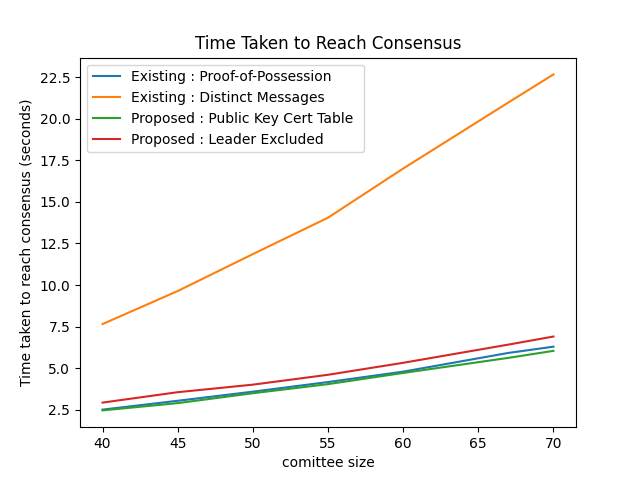
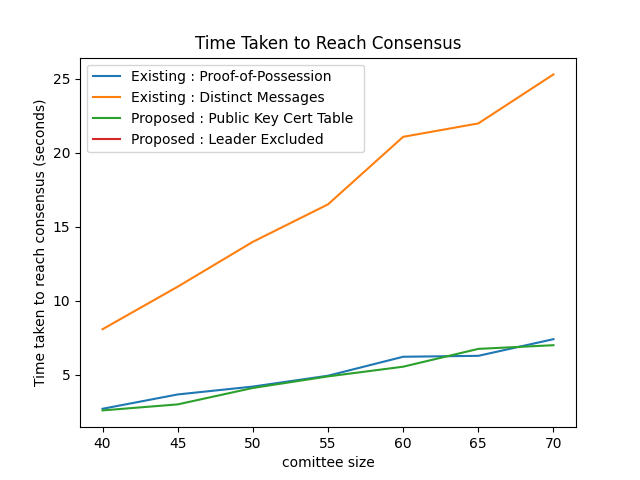
reverted simulation and added dissertation

diff --git a/analyse.py b/analyse.py
@@ -38,7 +38,7 @@ class Analyse():
             plt.plot(popComitteeSize, popTimes, label='Existing : Proof-of-Possession')
             plt.plot(basicComitteeSize, basicTimes, label='Existing : Distinct Messages')
             plt.plot(pktableComitteeSize, pktableTimes, label='Proposed : Public Key Cert Table ')
-            # plt.plot(leaderExcludedComitteeSize, leaderExcludedTimes, label='Proposed : Leader Excluded')
+            plt.plot(leaderExcludedComitteeSize, leaderExcludedTimes, label='Proposed : Leader Excluded')
 
             plt.xlabel('comittee size')
             plt.ylabel('Time taken to reach consensus (seconds)')
@@ -94,7 +94,7 @@ class Analyse():
             plt.plot(popComitteeSize, popLeaderToNodeMsgSizes, label='Existing : Proof-of-Possession')
             plt.plot(basicComitteeSize, basicLeaderToNodeMsgSizes, label='Existing : Distinct Messages')
             plt.plot(PKTComitteeSize, PKTLeaderToNodeMsgSizes, label='Proposed : Public Key Cert Table')
-            # plt.plot(LEComitteeSize, LELeaderToNodeMsgSizes, label='Proposed : Leader Excluded')
+            plt.plot(LEComitteeSize, LELeaderToNodeMsgSizes, label='Proposed : Leader Excluded')
             plt.xlabel('comittee size')
             plt.ylabel('Msg Size (bytes)')
             plt.legend()
@@ -104,14 +104,9 @@ class Analyse():
             plt.show()
             plt.clf()
 
-            # barYs = [popNodeToLeaderMsgSizes[0], basicNodeToLeaderMsgSizes[0], PKTNodeToLeaderMsgSizes[0], LENodeToLeaderMsgSizes[0]]
-            barYs = [popNodeToLeaderMsgSizes[0], basicNodeToLeaderMsgSizes[0], PKTNodeToLeaderMsgSizes[0]]
+            barYs = [popNodeToLeaderMsgSizes[0], basicNodeToLeaderMsgSizes[0], PKTNodeToLeaderMsgSizes[0], LENodeToLeaderMsgSizes[0]]
 
-            barXs = ['PoP', 'DM', 'PKT']
-            # plt.plot(popComitteeSize, popNodeToLeaderMsgSizes, label='Existing : Proof-of-Possession')
-            # plt.plot(basicComitteeSize, basicNodeToLeaderMsgSizes, label='Existing : Distinct Messages')
-            # plt.plot(PKTComitteeSize, PKTNodeToLeaderMsgSizes, label='Proposed : Public Key Cert Table')
-            # plt.plot(LEComitteeSize, LENodeToLeaderMsgSizes, label='Proposed : Leader Excluded')
+            barXs = ['PoP', 'DM', 'PKT', 'LE']
             plt.bar(barXs, barYs)
             plt.xlabel('Defence Mechanism')
             plt.ylabel('Msg Size (bytes)')
@@ -159,7 +154,7 @@ class Analyse():
             plt.plot(popComitteeSize, popNodeSizes, label='Existing : Proof-of-Possession')
             plt.plot(basicComitteeSize, basicNodeSizes, label='Existing : Distinct Messages')
             plt.plot(PKTComitteeSize, PKTNodeSizes, label='Proposed : Public Key Cert Table')
-            # plt.plot(LEComitteeSize, LENodeSizes, label='Proposed : Leader Excluded')
+            plt.plot(LEComitteeSize, LENodeSizes, label='Proposed : Leader Excluded')
             plt.xlabel('Comittee size')
             plt.ylabel('Node Size (bytes)')
             plt.legend()
@@ -176,7 +171,7 @@ class Analyse():
         time = datetime.now()
 
 
-analysis = Analyse()
-analysis.displaySpeed()
-analysis.displayMsgSize()
-analysis.displayNodeSize()
+# analysis = Analyse()
+# analysis.displaySpeed()
+# analysis.displayMsgSize()
+# analysis.displayNodeSize()

diff --git a/simulation.py b/simulation.py
@@ -44,12 +44,12 @@ def checkValidRound(committee):
 
 # creates a simulation for hardcoded sizes
 def simulationV2():
-    committeeSizes = [40,45,50,55,60,65,70]
+    committeeSizes = [10,12,14,16,18]
     for size in committeeSizes:
         validPKI = False
         validBasic = False
         validPop = False
-        validLe = True
+        validLe = False
         # re-run any failed consensus round. Round can fail for weird reasons
         while validPKI is False or validBasic is False or validPop is False or validLe is False :
             if validPKI is False : 
@@ -61,13 +61,13 @@ def simulationV2():
             if validPop is False : 
                 popTimeTaken, popCommittee = runPBFT('pop', size)
                 validPop = checkValidRound(popCommittee)
-            # if validLe is False : 
-            #     leTimeTaken, leCommittee = runPBFT('le', size)
-            #     validLe = checkValidRound(leCommittee)
+            if validLe is False : 
+                leTimeTaken, leCommittee = runPBFT('le', size)
+                validLe = checkValidRound(leCommittee)
         saveResult('pki', size, pkiTimeTaken, pkiCommittee)
         saveResult('pop', size, popTimeTaken, popCommittee)
         saveResult('basic', size, basicTimeTaken, basicCommittee)
-        # saveResult('le', size, leTimeTaken, leCommittee)
+        saveResult('le', size, leTimeTaken, leCommittee)
     writeResult("data/timeTaken.json", dataset)
     writeResult("data/msgSizes.json", msgSizes)
     writeResult("data/nodeSizes.json", nodeSizes)
